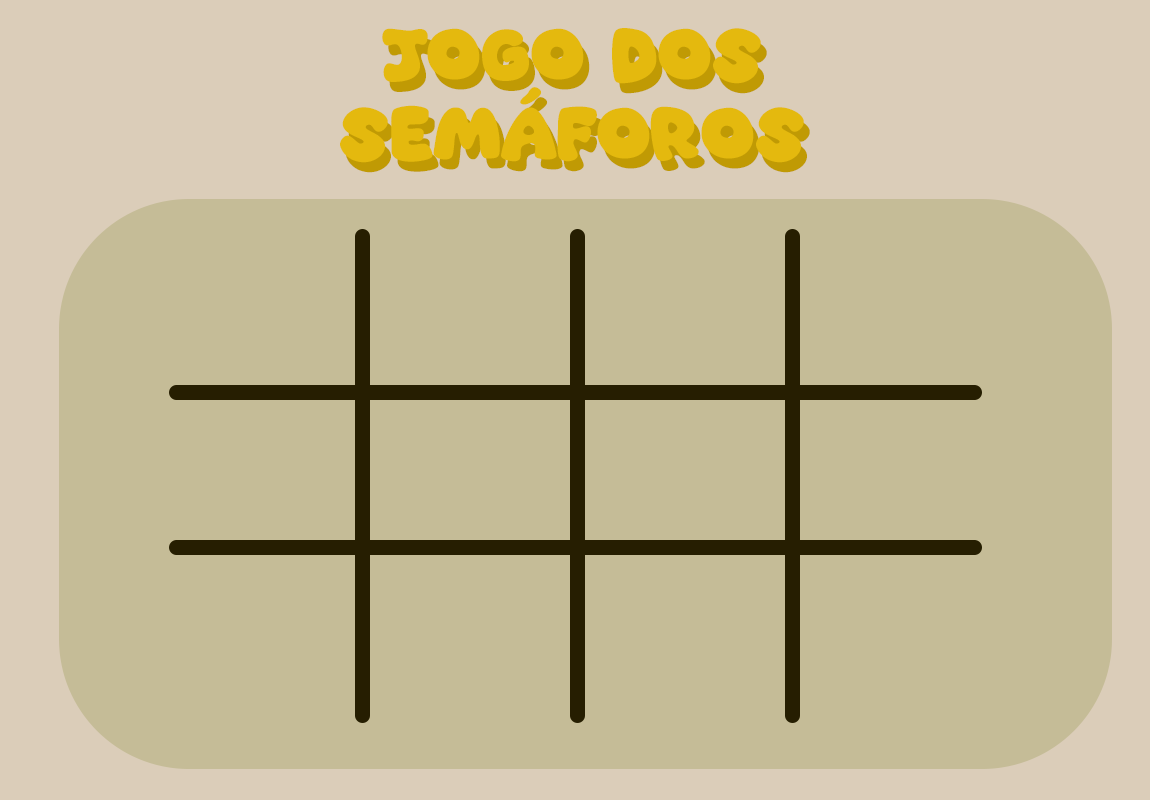
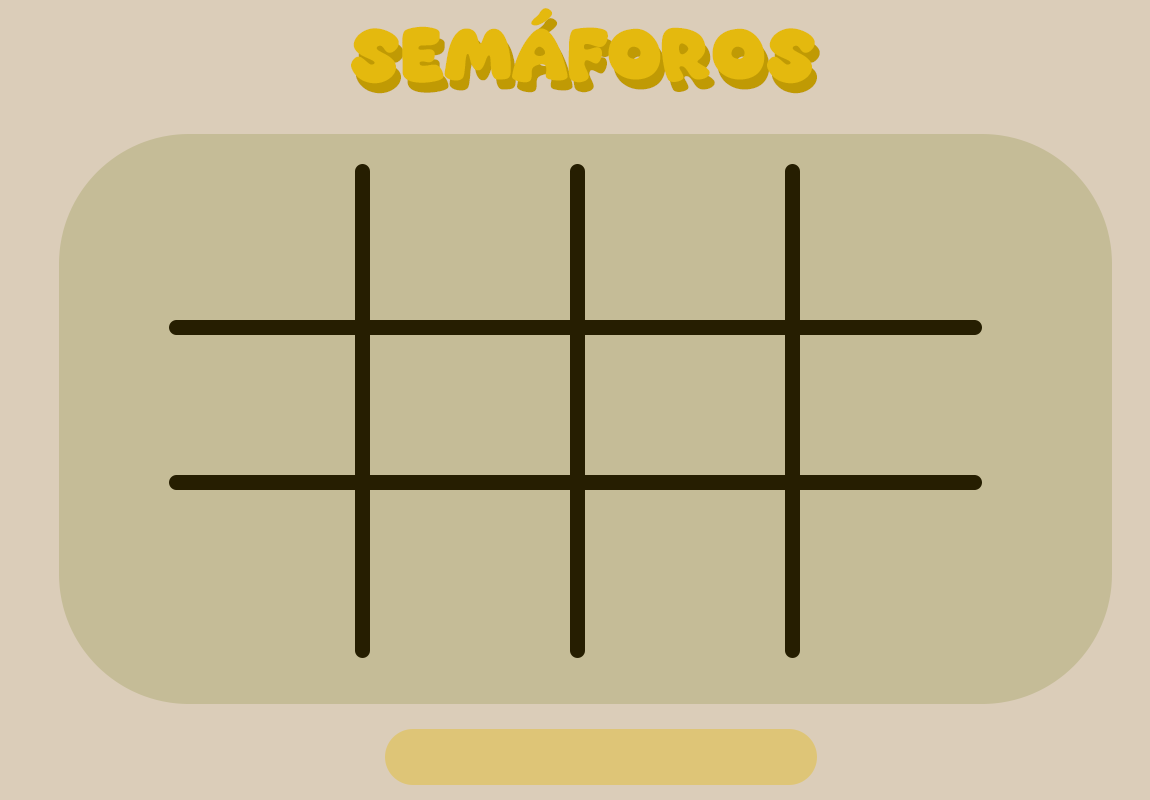
função jogo

diff --git a/interface.py b/interface.py
@@ -51,20 +51,48 @@ def tela_menu(estado):
     pygame.display.set_caption("Jogo dos Semáforos")
     janela_menu.blit(menu2,(0,0))
 
+    ## ativar Botao regras
+    botaoregras = pygame.Rect((50,457),(312,98))
+
+    ## ativar botao Sair
+    botaoSair = pygame.Rect((423, 646),(312,98))
+
+    ## ativar botao BOT
+    botaoBot = pygame.Rect((423, 457),(312,98))
+
+    ## ativar Botao 1vs1
+    botao1v1 = pygame.Rect((804, 457),(312,98))
+
+
     while estado == "Menu":
         for event in pygame.event.get():
             if event.type == pygame.QUIT:
                 pygame.quit()
                 quit()
-
+            if event.type == pygame.MOUSEBUTTONDOWN:
+                if botaoregras.collidepoint(pygame.mouse.get_pos()):
+                    estado = "Regras"
+                if botaoBot.collidepoint(pygame.mouse.get_pos()):
+                    estado = "Bot"
+                if botao1v1.collidepoint(pygame.mouse.get_pos()):
+                    estado = "1v1"
+                if botaoSair.collidepoint(pygame.mouse.get_pos()):
+                    pygame.quit
+                    quit()
         pygame.display.update()
 
         return estado
+    
 
-def tela_jogbot(estado):
+
+def tela_bot(estado):
     janela_bot = pygame.display.set_mode((1150,800))
     pygame.display.set_caption("Jogo dos Semáforos")
     janela_bot.blit(bot2,(0,0))
+
+    botaovoltar2 = pygame.Rect((261, 528),(312,98))
+    botaoplay1 = pygame.Rect((605,528),(312,98))
+
     nome_jogador1 = ""
 
     while estado == "Bot":
@@ -72,6 +100,13 @@ def tela_jogbot(estado):
             if event.type == pygame.QUIT:
                 pygame.quit()
                 quit()
+
+            elif event.type == pygame.MOUSEBUTTONDOWN:
+                if botaoplay1.collidepoint(pygame.mouse.get_pos()):
+                    estado = "JogoB"
+                if botaovoltar2.collidepoint(pygame.mouse.get_pos()):
+                    estado = "Menu"
+
 
             elif event.type == pygame.KEYDOWN:
                            
@@ -94,11 +129,20 @@ def tela_jogbot(estado):
 
         janela_bot.blit(texto_jogador1, posicao_texto_jogador1)
       
-
-    
         pygame.display.update()
 
         
+def tela_JogoB(estado):
+    janela_bot = pygame.display.set_mode((1150,800))
+    pygame.display.set_caption("Jogo dos Semáforos")
+    janela_bot.blit(jogo2,(0,0))
+
+    while estado == "JogoB":
+        for event in pygame.event.get():
+            if event.type == pygame.QUIT:
+                pygame.quit()
+                quit()
+        pygame.display.update()
 
 
 
@@ -109,4 +153,6 @@ def tela_jogbot(estado):
 #         estado = tela_menu(estado)
 
 # estado = "Bot"
-# tela_jogbot(estado)
+# tela_bot(estado)
+estado = "JogoB"
+tela_JogoB(estado)
